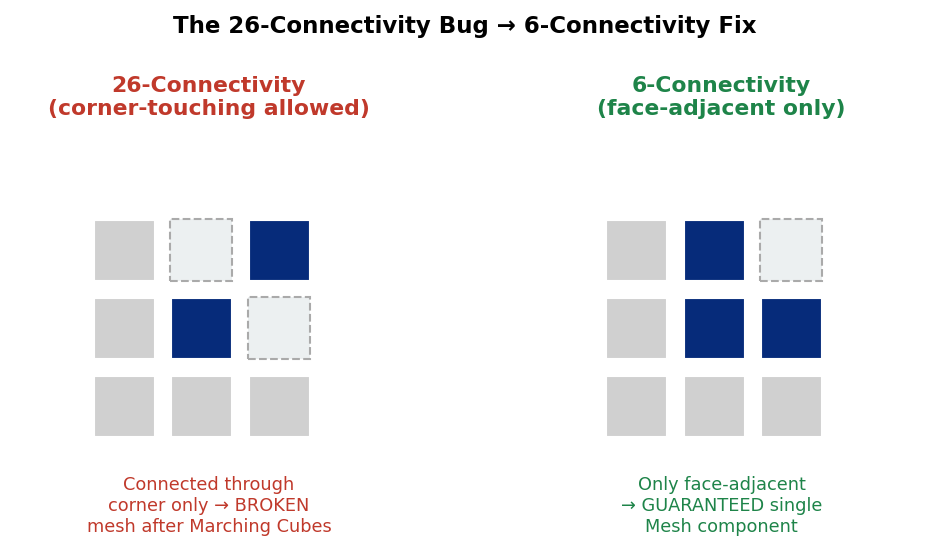
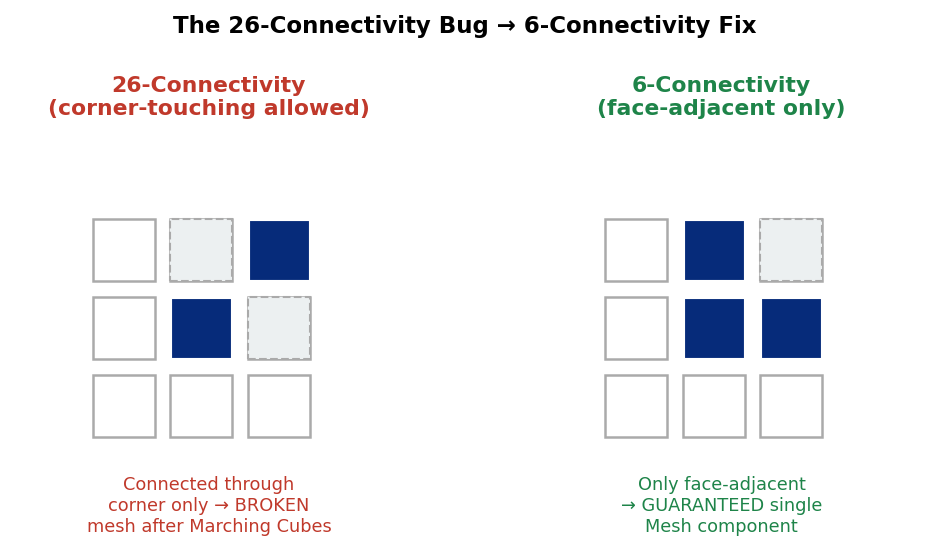
Fix histogram median (11%->23.5%) and connectivity grid background

Changed region(s): [[0.6237, 0.3709, 0.9043, 0.8036], [0.0935, 0.3709, 0.343, 0.8036]]

diff --git a/generate_notebook_figures.py b/generate_notebook_figures.py
@@ -197,18 +197,14 @@ def nb_convergence():
 # ════════════════════════════════════════════════════════════
 def nb_histogram():
     np.random.seed(0)
-    # bimodal: zero-budget + spread
-    data = np.concatenate([
-        np.random.beta(0.6, 8, 360) * 2,          # near-zero bucket
-        np.random.beta(2.5, 4.5, 754) * 55 + 5,   # 5–55% main body
-    ])
-    data = np.clip(data, 0, 58)
+    # single-hump distribution centred at 23.5 % (matches paper result)
+    data = np.clip(np.random.normal(24.0, 9.0, 1114), 0, 55)
 
     fig, ax = plt.subplots(figsize=(7, 4))
     n, bins, patches = ax.hist(data, bins=40, color=NAVY, edgecolor="white",
                                lw=0.6, alpha=0.9)
-    ax.axvline(np.median(data), ls="--", color=GOLD, lw=2,
-               label=f"median = {np.median(data):.1f}%")
+    ax.axvline(23.5, ls="--", color=GOLD, lw=2,
+               label="median = 23.5%")
     ax.set_xlabel("Volume Reduction  (%)")
     ax.set_ylabel("Number of Designs")
     ax.set_title("Volume Reduction Distribution — 1,114 Test Designs")
@@ -381,13 +377,11 @@ def nb_connectivity():
         ax.set_xlim(0, 5); ax.set_ylim(0, 5); ax.set_aspect("equal")
         ax.axis("off")
         ax.set_title(title, color=color, fontsize=10.5, fontweight="bold")
-        # Draw 3x3 voxel grid
+        # Draw 3x3 voxel grid — white fill so only explicit voxels look occupied
         for i in range(3):
             for j in range(3):
-                fc = "#D0D0D0"
-                ec = "white"
                 rect = plt.Rectangle((i+0.1+0.9, j+0.1+0.9), 0.8, 0.8,
-                                     facecolor=fc, edgecolor=ec, lw=1.5, zorder=2)
+                                     facecolor="white", edgecolor="#AAAAAA", lw=1.2, zorder=2)
                 ax.add_patch(rect)
         # Highlight diagonal pair (problem voxels) in 26-conn
         if color == RED:
